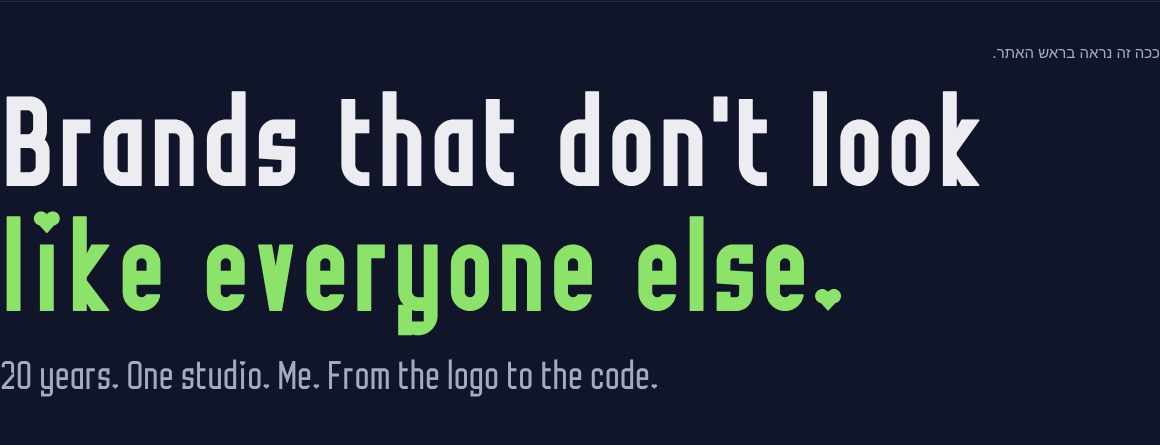
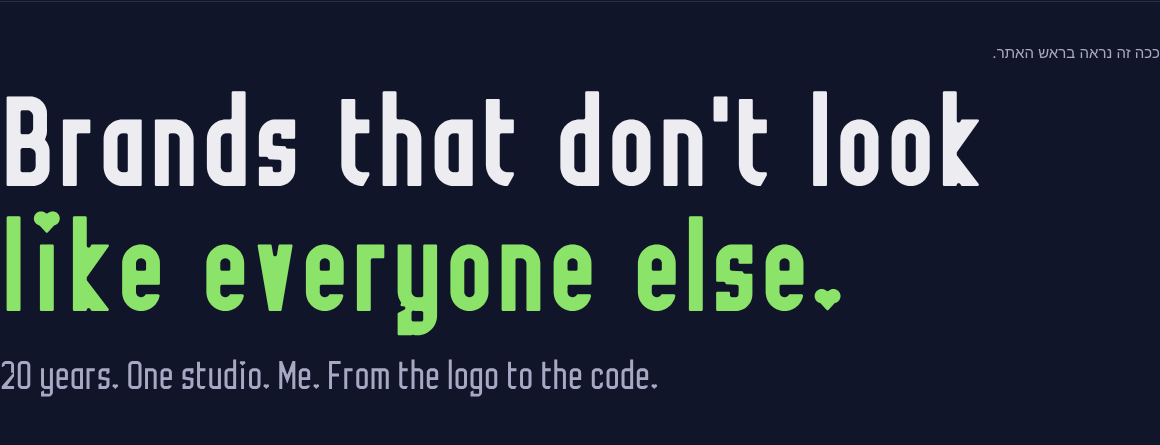
Refine 3S Brand Sans: pen-cut terminals, cleaner joins
Claude-Session: https://claude.ai/code/session_014tNuHNxs6LXCKPMHdXM6gG

diff --git a/3sds/type/v4/index.html b/3sds/type/v4/index.html
@@ -6,8 +6,8 @@
 <meta name="robots" content="noindex,nofollow">
 <title>3SDS · 3S Brand Sans</title>
 <style>
-@font-face{font-family:'3S Brand Sans';src:url(3S-BrandSans-Regular.woff2) format('woff2');font-weight:400;font-display:block}
-@font-face{font-family:'3S Brand Sans';src:url(3S-BrandSans-Bold.woff2) format('woff2');font-weight:700;font-display:block}
+@font-face{font-family:'3S Brand Sans';src:url(3S-BrandSans-Regular.woff2?v=41) format('woff2');font-weight:400;font-display:block}
+@font-face{font-family:'3S Brand Sans';src:url(3S-BrandSans-Bold.woff2?v=41) format('woff2');font-weight:700;font-display:block}
 :root{--bg:#11152a;--bg2:#3b3478;--ink:#ececf1;--dim:#a7a9c4;--leaf:#8be36a;--sun:#e8e27a}
 *{box-sizing:border-box}
 body{margin:0;background:linear-gradient(180deg,var(--bg2),var(--bg) 460px) no-repeat,var(--bg);color:var(--ink);font:400 16px/1.5 system-ui,-apple-system,"Segoe UI",Arial,sans-serif}
@@ -32,10 +32,10 @@ footer{padding:26px 0 60px;border-top:1px solid #2a2e4a;color:var(--dim);font-si
 </head>
 <body>
 <div class="wrap">
-<header><p>3SDS · 25.11.2026 · סבב 4</p><h1>3S Brand Sans: האותיות של הלוגו, הפכו לפונט מלא.</h1></header>
+<header><p>3SDS · 25.11.2026 · סבב 4.1</p><h1>3S Brand Sans: האותיות של הלוגו, הפכו לפונט מלא.</h1></header>
 
 <section id="o1">
-<p class="note">למעלה: הלוגו. מתחתיו: אותה מילה בפונט החדש. אותו קו, אותו S, והעלה מהלוגו הוא הנקודה.</p>
+<p class="note">למעלה: הלוגו. מתחתיו: אותה מילה בפונט החדש. אותו קו, אותו S, העלה מהלוגו הוא הנקודה, והקצוות חתוכים באלכסון כמו קצה של עט.</p>
 <div class="pair ltr">
 <img src="logo-wide.png" alt="3Shamrocks.Studio logo">
 <p class="wm bs">3Shamrocks.Studio</p>
